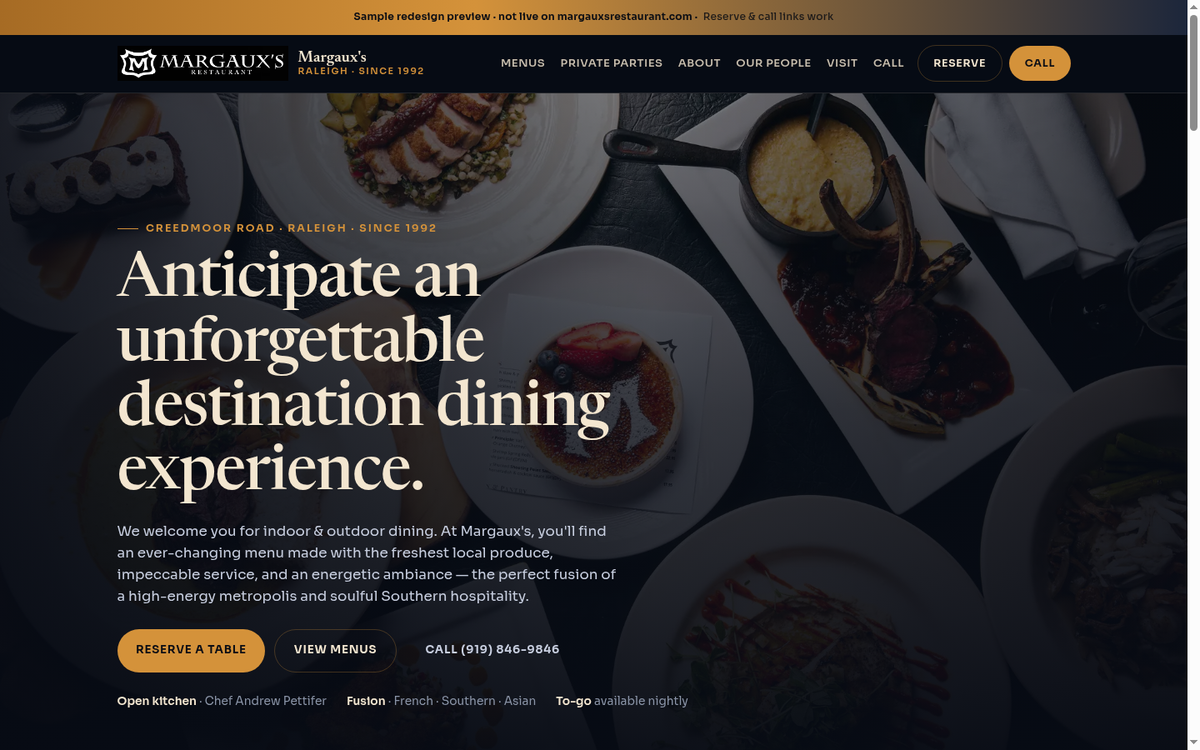
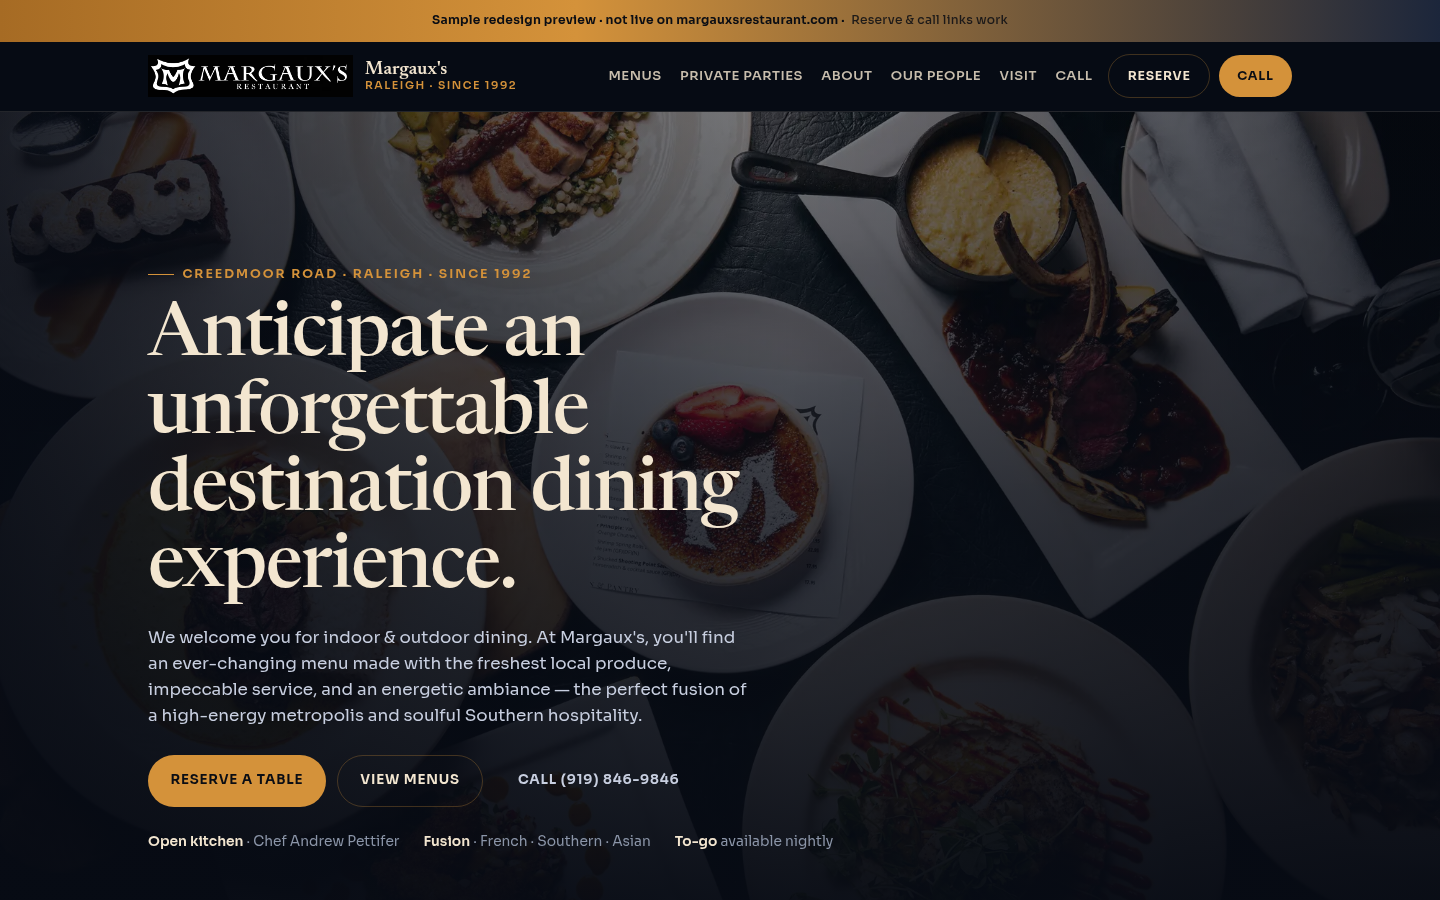
Polish Margaux preview: mobile header CTA spacing for pitch quality bar

diff --git a/assets/styles.css b/assets/styles.css
@@ -410,3 +410,23 @@ button { font: inherit; border: 0; background: none; cursor: pointer; color: inh
   .purveyor-grid { grid-template-columns: repeat(3, minmax(0, 1fr)); }
   .footer-inner { grid-template-columns: 1.3fr 1fr; }
 }
+
+/* Mobile header: keep Call + menu, hide Reserve to prevent brand overlap */
+@media (max-width: 979px) {
+  .nav-ctas .btn-secondary { display: none !important; }
+  .brand-text { display: none; }
+  .nav-ctas .btn-primary { padding: .65rem .95rem; font-size: .82rem; }
+  .brand img { width: 44px; height: auto; max-height: 44px; }
+}
+
+.call-short{display:none}
+@media (max-width:979px){
+  .call-full{display:none}
+  .call-short{display:inline}
+}
+
+
+/* margaux mobile logo */
+@media (max-width:979px){
+  .brand img{width:118px !important; height:auto !important; max-height:40px !important;}
+}
